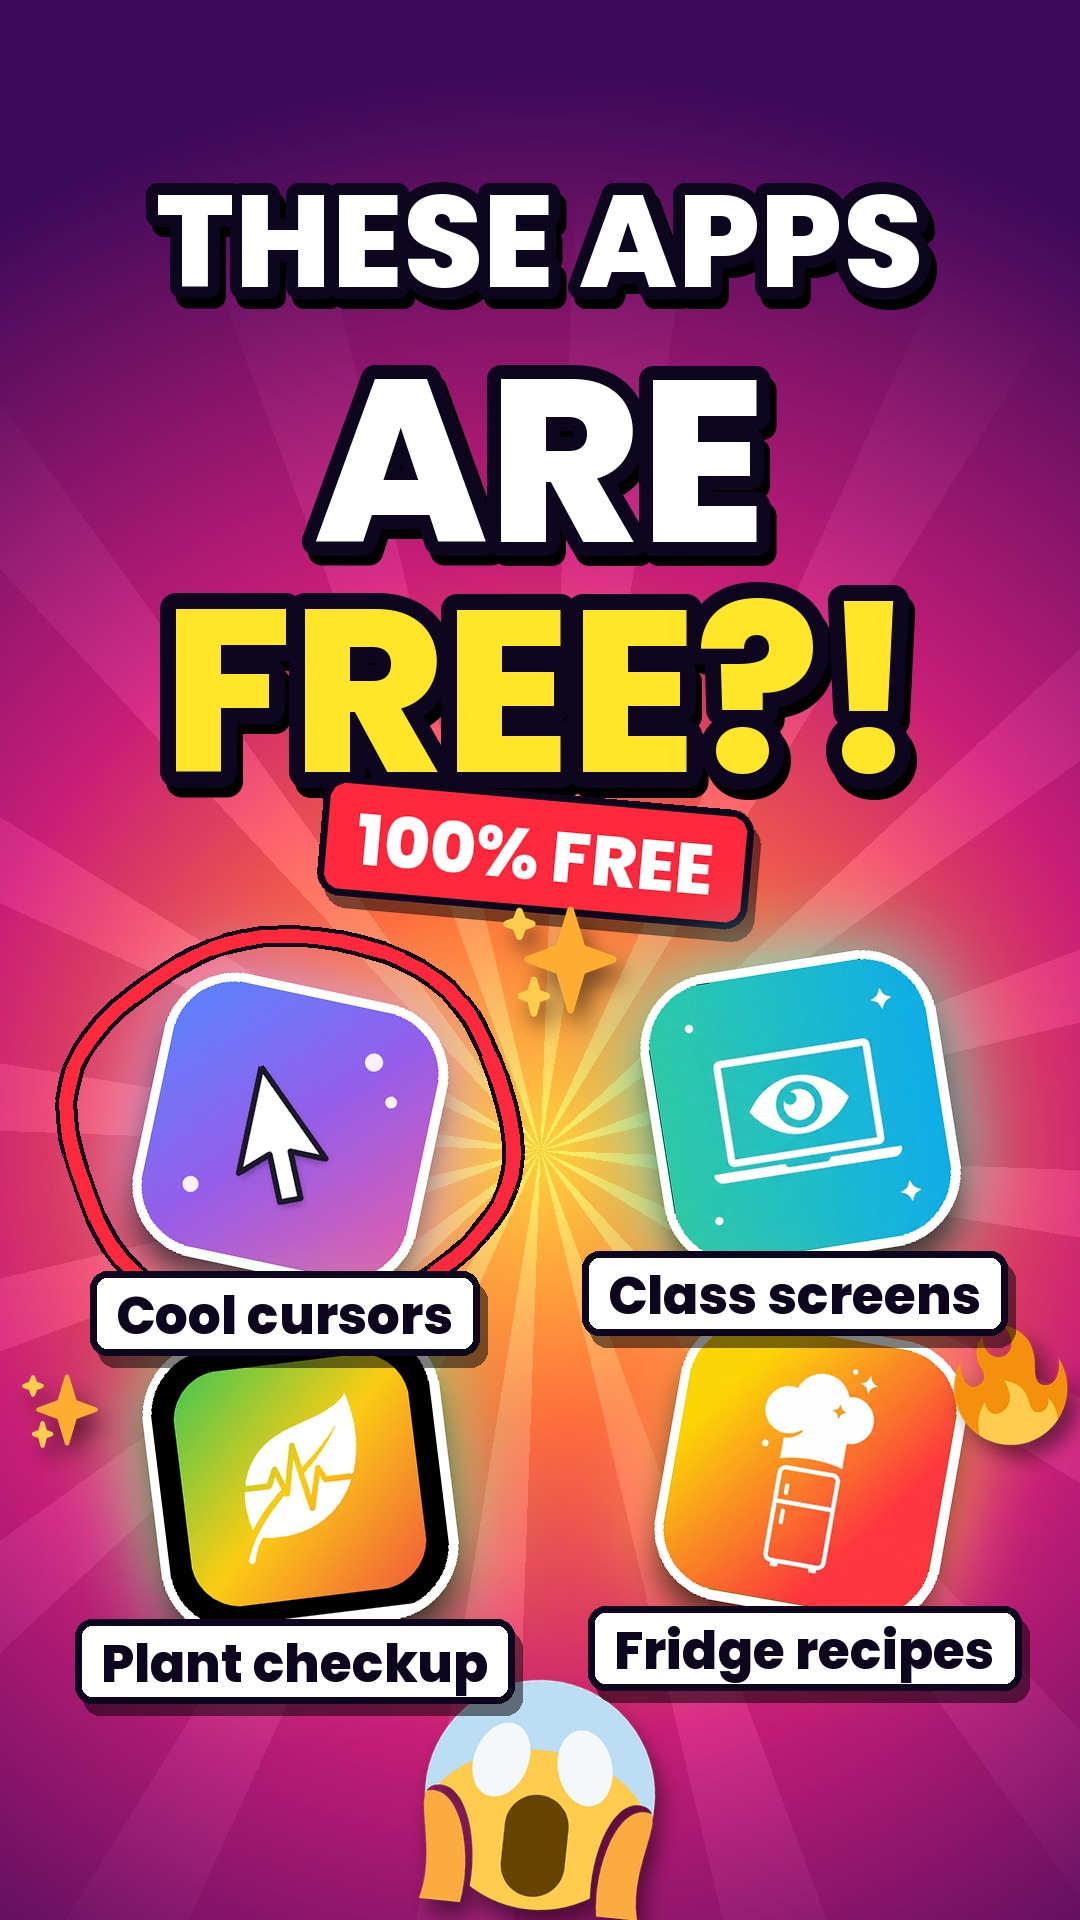
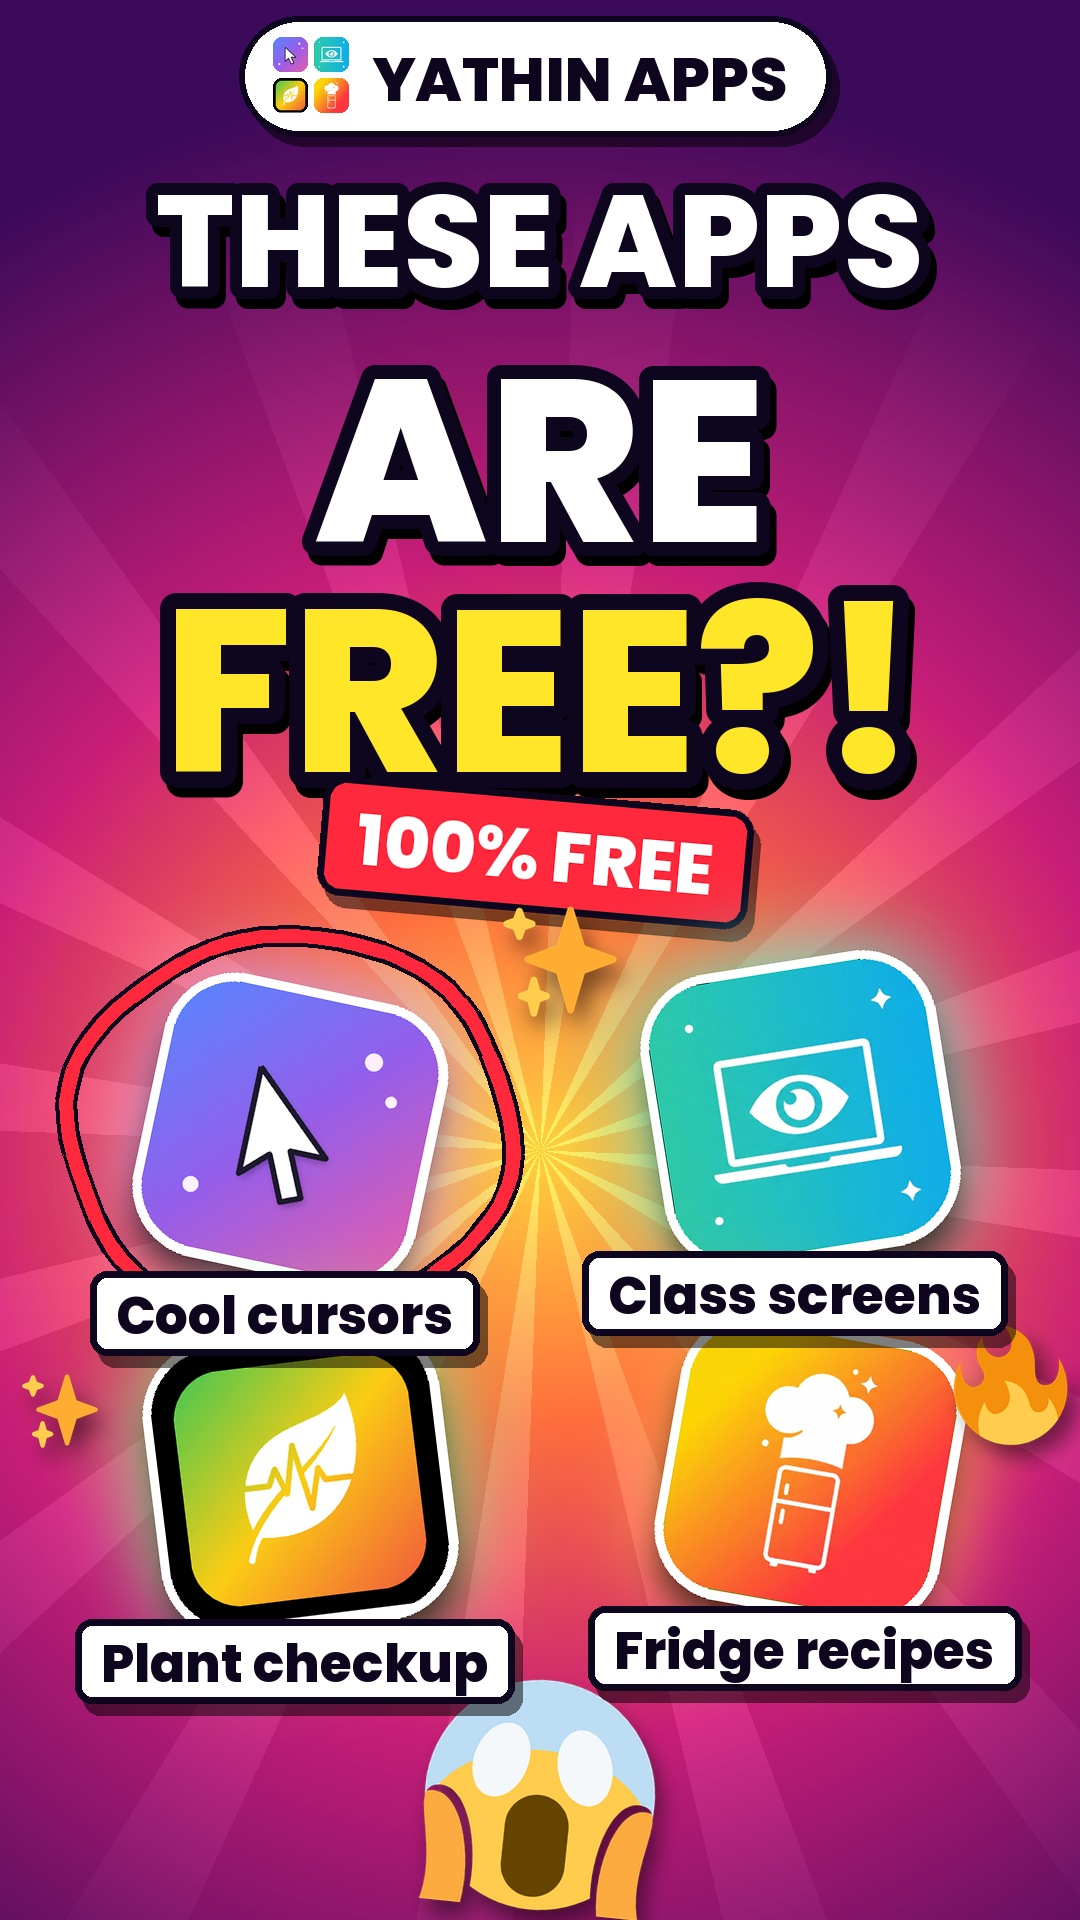
Add Yathin Apps brand badge to thumbnails

Changed region(s): [[0.2139, 0.0, 0.7944, 0.0938]]

diff --git a/videos/thumbnails/make_yathin_thumbnail.py b/videos/thumbnails/make_yathin_thumbnail.py
@@ -49,6 +49,18 @@ def arrow(bg,pts,w=16,col=(255,40,60)):
     d.polygon([(x2+14*math.cos(a),y2+14*math.sin(a)),(x2-L*math.cos(a-0.5),y2-L*math.sin(a-0.5)),(x2-L*math.cos(a+0.5),y2-L*math.sin(a+0.5))],fill=col,outline=INK,width=6)
 def curve(p0,p1,p2,n=30): return [((1-t)**2*p0[0]+2*(1-t)*t*p1[0]+t*t*p2[0],(1-t)**2*p0[1]+2*(1-t)*t*p1[1]+t*t*p2[1]) for t in [i/n for i in range(n+1)]]
 
+def brand(bg,center,size,rot=0):
+    f=ImageFont.truetype(F,size); t='YATHIN APPS'; tw=ImageDraw.Draw(bg).textlength(t,font=f)
+    g=int(size*1.25); cell=(g-6)//2
+    W=int(g+tw+size*1.6); H=int(size*1.95)
+    L=Image.new('RGBA',(W+10,H+12),(0,0,0,0)); d=ImageDraw.Draw(L)
+    d.rounded_rectangle([8,12,W+8,H+10],H//2,fill=(0,0,0,130))
+    d.rounded_rectangle([0,0,W,H],H//2,fill=(255,255,255),outline=INK,width=6)
+    x0=int(size*.55); y0=(H-g)//2
+    for k,p in enumerate(ICONS):
+        ic=rr(Image.open(p).convert('RGB').resize((cell,cell),Image.LANCZOS),int(cell*.25)); L.alpha_composite(ic,(x0+(k%2)*(cell+6),y0+(k//2)*(cell+6)))
+    d.text((x0+g+size*.35,(H-size*1.25)/2-2),t,font=f,fill=INK)
+    paste_rot(bg,L,center,rot)
 LABELS=['Cool cursors','Class screens','Plant checkup','Fridge recipes']
 def labels(bg,pts,size):
     for t,(x,y) in zip(LABELS,pts): sticker(bg,t,(x,y),size,0,fill=(255,255,255),fg=INK)
@@ -63,6 +75,7 @@ emoji(bg,'1f631',200,(560,600),-8)
 sticker(bg,'100% FREE',(240,585),62,-6)
 arrow(bg,curve((540,330),(620,250),(700,215)))
 labels(bg,[(820,300),(1100,345),(850,628),(1120,645)],32)
+brand(bg,(1085,52),34)
 bg.convert('RGB').save('thumbnails/yathin-thumbnail.jpg',quality=93)
 # ---- square 1080x1080
 bg=bgimg(1080,1080,540,700); d=ImageDraw.Draw(bg)
@@ -72,7 +85,7 @@ emoji(bg,'1f631',200,(555,770),-6); emoji(bg,'2728',80,(545,520),0); emoji(bg,'1
 f1=ImageFont.truetype(F,104); f2=ImageFont.truetype(F,170)
 for y,t,f,c in [(40,'THESE APPS ARE',f1,'white'),(165,'FREE?!',f2,(255,230,40))]:
     tw=d.textlength(t,font=f); text(d,((1080-tw)/2,y),t,f,c,12)
-sticker(bg,'100% FREE',(560,395),56,-5)
+sticker(bg,'100% FREE',(300,400),50,-5); brand(bg,(780,400),40,3)
 labels(bg,[(300,722),(790,707),(320,1030),(800,1020)],38)
 bg.convert('RGB').save('thumbnails/yathin-thumbnail-square.jpg',quality=93)
 # ---- vertical 1080x1920
@@ -80,7 +93,7 @@ bg=bgimg(1080,1920,540,1150); d=ImageDraw.Draw(bg)
 fa=ImageFont.truetype(F,130); fb=ImageFont.truetype(F,230)
 for y,t,f,c,sw in [(150,'THESE APPS',fa,'white',12),(300,'ARE',fb,'white',14),(530,'FREE?!',fb,(255,230,40),16)]:
     tw=d.textlength(t,font=f); text(d,((1080-tw)/2,y),t,f,c,sw)
-sticker(bg,'100% FREE',(540,860),70,-5)
+sticker(bg,'100% FREE',(540,860),70,-5); brand(bg,(540,82),62)
 for p,s,pos,r,g in zip(ICONS,[270,280,280,270],[(290,1130),(800,1110),(300,1480),(810,1470)],[-12,9,7,-10],GLOW): icon(bg,p,s,pos,r,g)
 ring(bg,(290,1130),205,14)
 emoji(bg,'2728',120,(560,960),0); emoji(bg,'1f525',120,(1010,1385),12); emoji(bg,'2728',80,(60,1410),0)
